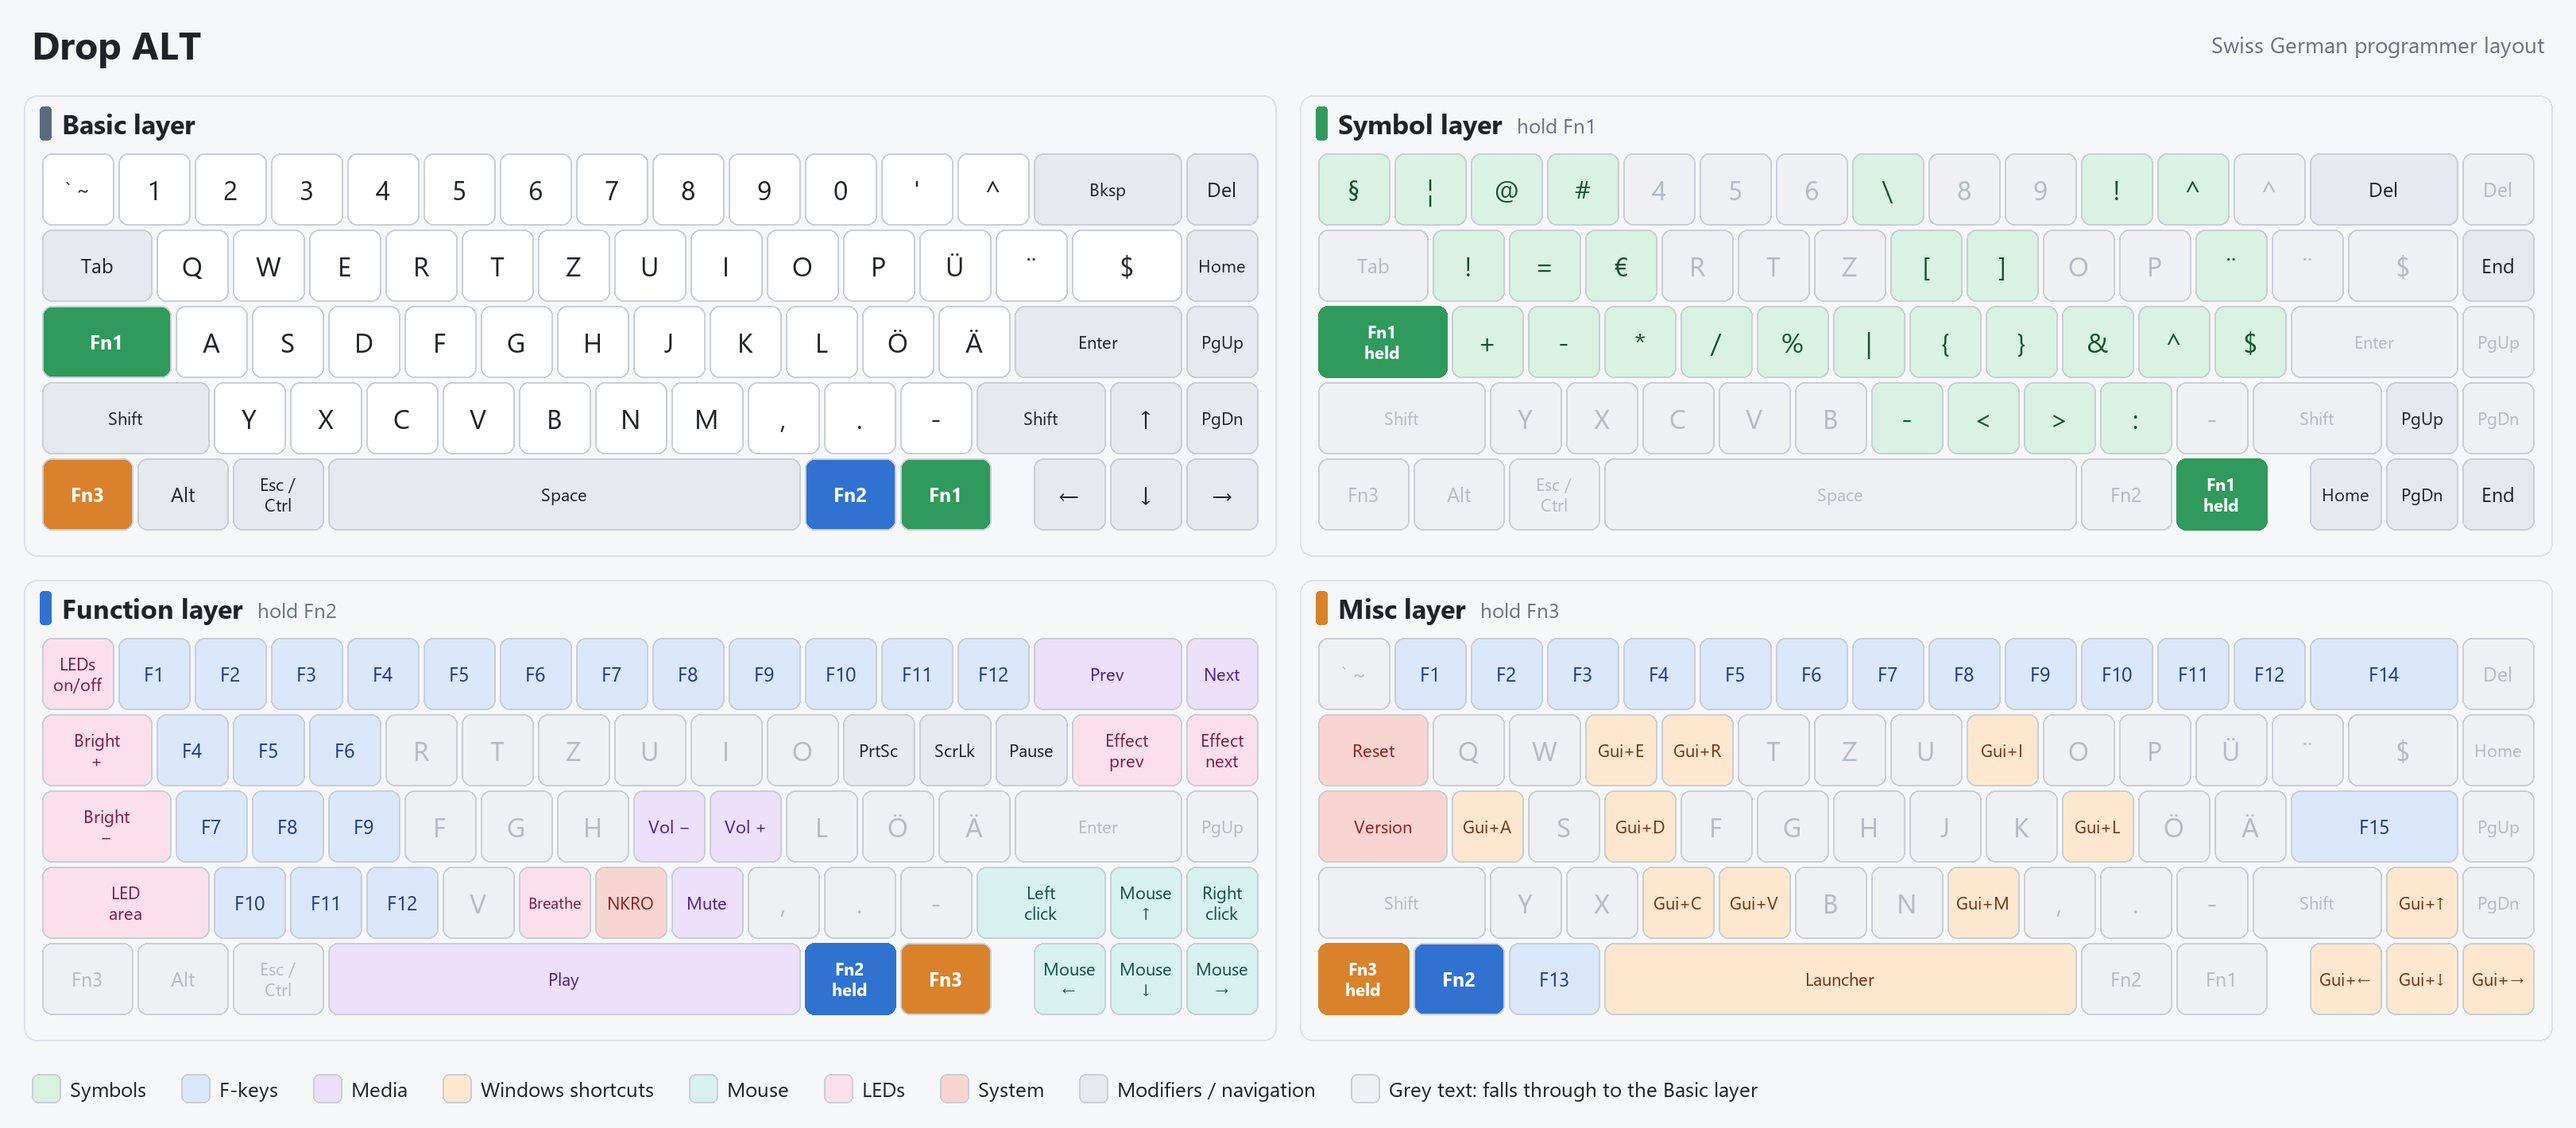
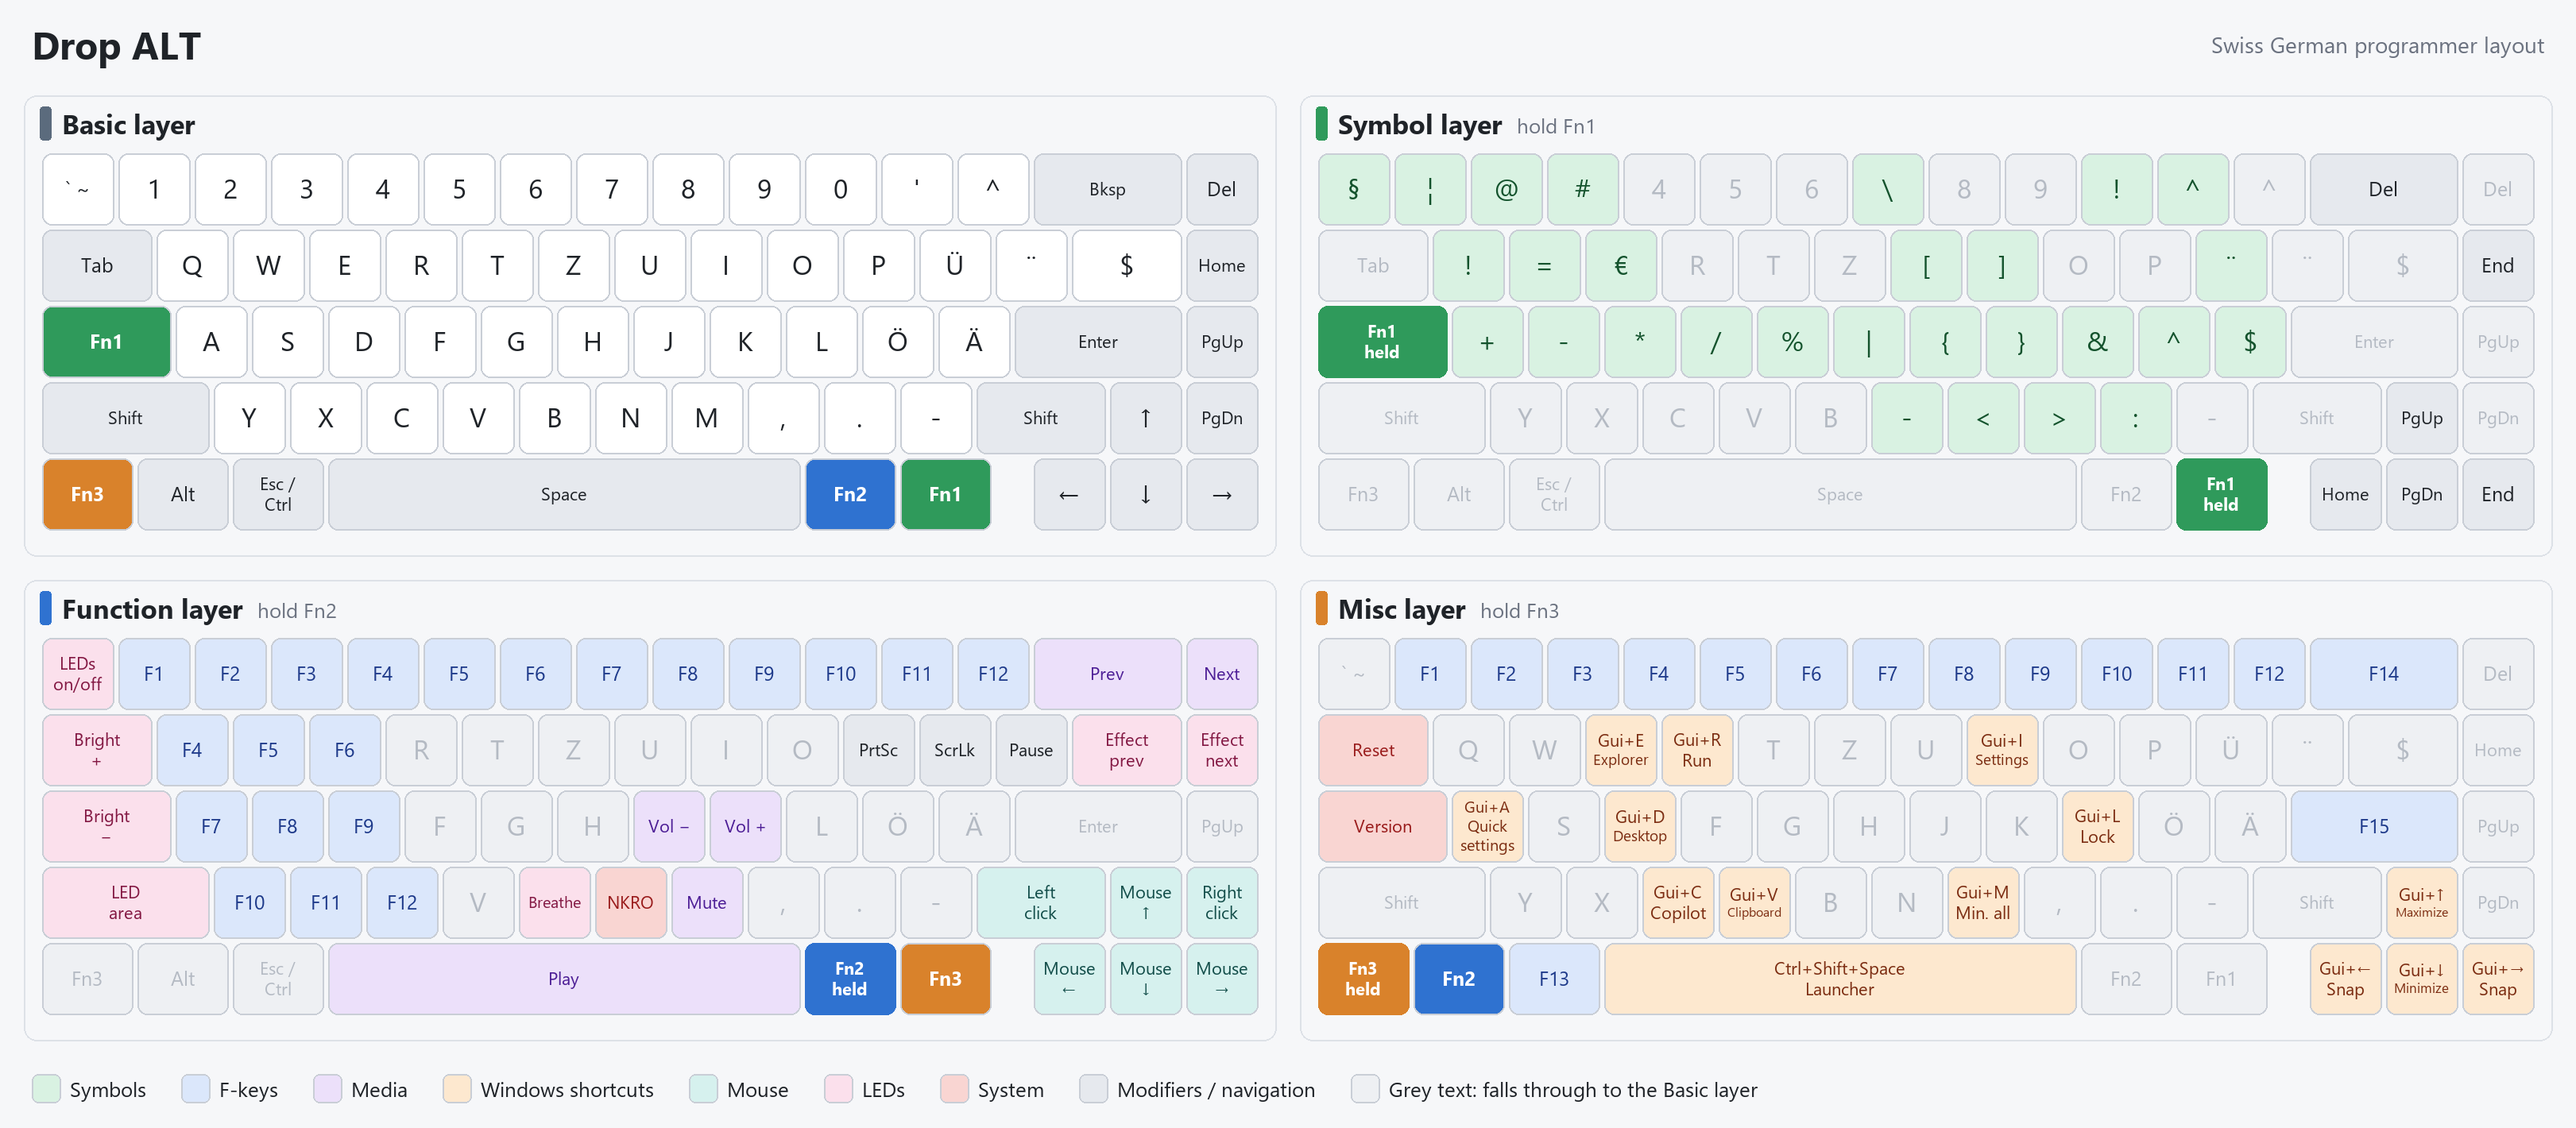
Describe the Windows shortcuts on the Misc layer cheat sheets
Gui+key labels get a second line with what the shortcut does, and the
launcher key shows its Ctrl+Shift+Space chord. Each label line is now
sized on its own, so a long description no longer shrinks the line above.

diff --git a/tools/cheatsheets.py b/tools/cheatsheets.py
@@ -91,11 +91,16 @@ NAMED = {
     "LM_BRID": ("Backlight\n−", "rgb"),
     "BREATHE": ("Breathe", "rgb"), "LM_PREV": ("Effect\nprev", "rgb"), "LM_NEXT": ("Effect\nnext", "rgb"),
     "QK_BOOT": ("Reset", "system"), "VRSN": ("Version", "system"), "NK_TOGG": ("NKRO", "system"),
-    "LAUNCHER": ("Launcher", "window"),
+    "LAUNCHER": (("Ctrl+Shift+Space\nLauncher", "Ctrl+Shift\n+Space\nLauncher"), "window"),
     "C(S(CH_M))": ("Teams\nmute", "media"), "C(S(CH_O))": ("Teams\ncamera", "media"),
     "C(S(CH_P))": ("Teams\nblur", "media"),
 }
 ARROWS = {"KC_LEFT": "←", "KC_RIGHT": "→", "KC_RGHT": "→", "KC_UP": "↑", "KC_DOWN": "↓"}
+GUI_ACTIONS = {  # what Gui+key does in Windows 11
+    "CH_A": "Quick\nsettings", "CH_C": "Copilot", "CH_D": "Desktop", "CH_E": "Explorer",
+    "CH_I": "Settings", "CH_L": "Lock", "CH_M": "Min. all", "CH_R": "Run", "CH_V": "Clipboard",
+    "KC_UP": "Maximize", "KC_DOWN": "Minimize", "KC_LEFT": "Snap", "KC_RIGHT": "Snap",
+}
 
 
 def base_char(kc):
@@ -117,7 +122,10 @@ def label(kc):
         return CH_SYMBOLS[kc], "symbol"
     if m := re.fullmatch(r"G\((\w+)\)", kc):
         k = m.group(1)
-        return "Gui+" + (ARROWS.get(k) or base_char(k)), "window"
+        text = "Gui+" + (ARROWS.get(k) or base_char(k))
+        if k in GUI_ACTIONS:
+            text += "\n" + GUI_ACTIONS[k]
+        return text, "window"
     if m := re.fullmatch(r"C\(S\((\w+)\)\)", kc):
         return "Ctrl+Shift\n+" + base_char(m.group(1)), "window"
     if (c := base_char(kc)) is not None:
@@ -231,31 +239,54 @@ def font(size, bold=False):
     return _fonts[key]
 
 
-def fit_text(draw, text, max_w, max_h, start):
+def text_height(lines, sizes, descender=True):
+    """Height from the cap top of the first line to the baseline (or descender) of the last one."""
+    fonts = [font(s) for s in sizes]
+    h = -fonts[0].getbbox("A", anchor="ls")[1]
+    h += sum(f.getbbox("A")[3] + 2 for f in fonts[1:])
+    return h + (fonts[-1].getmetrics()[1] if descender else 0)
+
+
+def fit_lines(draw, lines, max_w, max_h, start):
+    """Font size per line: all lines share the largest size whose height fits,
+    then a line that is too wide shrinks on its own."""
     size = start
-    while size > 10:
-        f = font(size)
-        box = draw.multiline_textbbox((0, 0), text, font=f, spacing=2, align="center")
-        if box[2] - box[0] <= max_w and box[3] - box[1] <= max_h:
-            return f
+    while size > 10 and text_height(lines, [size] * len(lines)) > max_h:
         size -= 1
-    return font(10)
+    sizes = []
+    for line in lines:
+        s = size
+        while s > 10 and draw.textlength(line, font=font(s)) > max_w:
+            s -= 1
+        sizes.append(s)
+    return sizes
+
+
+def fit_key_text(draw, text, max_w, max_h):
+    lines = text.splitlines()
+    longest = max(len(line) for line in lines)
+    start = int(U * (0.36 if longest == 1 else 0.27 if longest <= 3 else 0.23))
+    return lines, fit_lines(draw, lines, max_w, max_h, start)
 
 
 def draw_key(draw, rect, text, fill, color, outline=None, bold=False):
+    """text may be a tuple of alternative wrappings; the one whose smallest line is largest wins."""
     x0, y0, x1, y1 = rect
     draw.rounded_rectangle(rect, RADIUS, fill=fill, outline=outline or "#c9ced6",
                            width=4 if outline else 2)
     if not text:
         return
     pad = 10
-    longest = max(len(line) for line in text.splitlines())
-    start = int(U * (0.36 if longest == 1 else 0.27 if longest <= 3 else 0.23))
-    f = fit_text(draw, text, x1 - x0 - 2 * pad, y1 - y0 - 2 * pad, start)
-    if bold:
-        f = font(f.size, bold=True)
+    variants = [text] if isinstance(text, str) else text
+    fits = [fit_key_text(draw, t, x1 - x0 - 2 * pad, y1 - y0 - 2 * pad) for t in variants]
+    lines, sizes = max(fits, key=lambda ls: min(ls[1]))
+    fonts = [font(s, bold) for s in sizes]
     cx, cy = (x0 + x1) / 2, (y0 + y1) / 2
-    draw.multiline_text((cx, cy), text, font=f, fill=color, anchor="mm", align="center", spacing=2)
+    baseline = cy - text_height(lines, sizes, descender=False) / 2 -fonts[0].getbbox("A", anchor="ls")[1]
+    for i, (line, f) in enumerate(zip(lines, fonts)):
+        if i:
+            baseline += f.getbbox("A")[3] + 2
+        draw.text((cx, baseline), line, font=f, fill=color, anchor="ms")
 
 
 def render_layer(layers, n, geometry):
